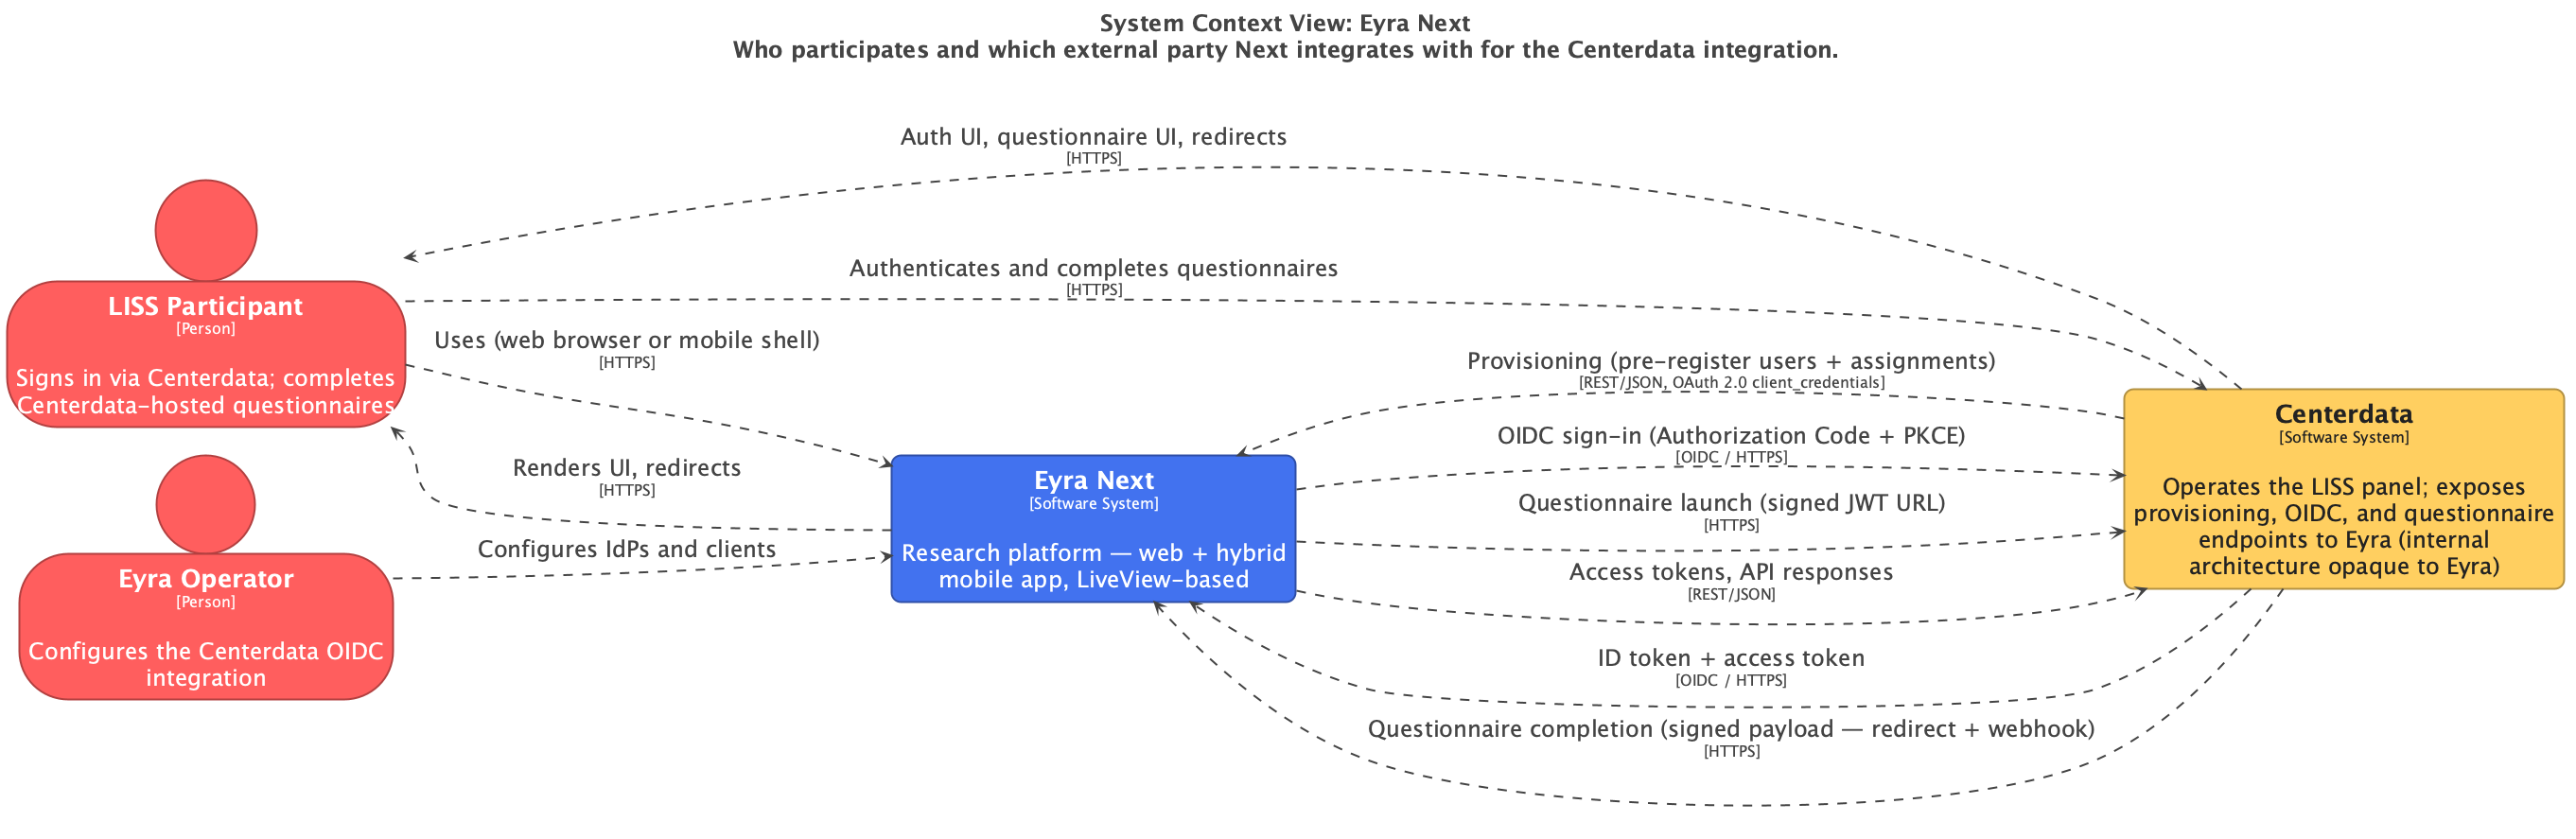
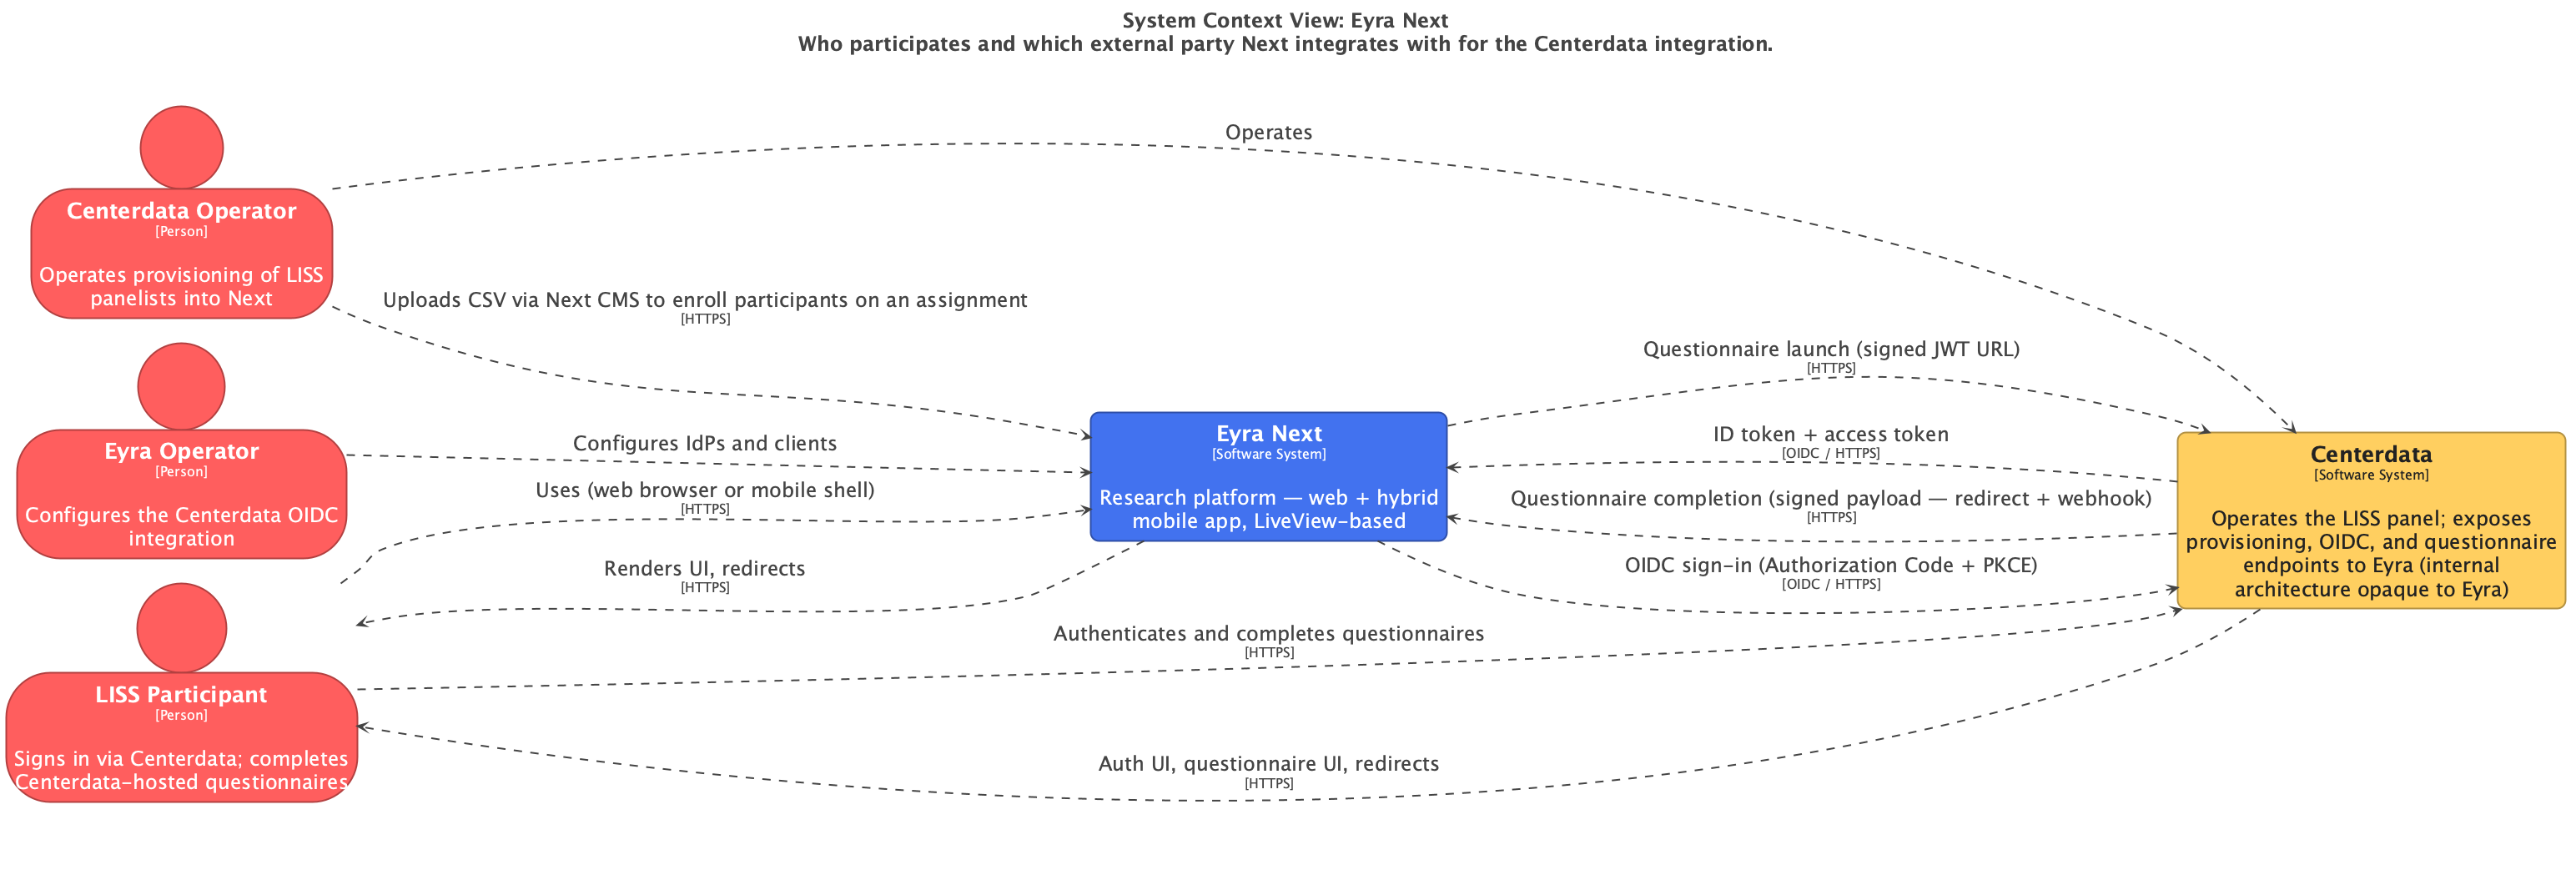
docs(architecture): replace provisioning REST API with CSV import
Interface 1 is now a CSV upload via the Next CMS instead of a REST
provisioning API. Centerdata exports a CSV from the LISS panel and a
Centerdata operator (regular Next user with the creator role) uploads
it to the assignment. The CSV is the declarative truth — importing
replaces the participant list, except for participants who have
already started the assignment.

Design decisions captured:
- Columns: centerdata_sub (required), email (required), label (optional,
  free-form, per-assignment human handle)
- All-or-nothing validation
- Pre-commit confirmation dialog + post-commit result summary (race
  condition between dialog and commit acknowledged — "started" is
  re-evaluated at commit time)
- Sign-in always succeeds; empty-state on the home page if not yet
  enrolled in any assignment
- OIDC sign-in is the only event that mutates User-level fields
  (email); CSV import never overwrites them, only creates if missing

Doc shape:
- design-briefing.md keeps just the contract (terse §5 with rationale)
- csv-import.md captures implementation specifics (validation, UX,
  audit, started-protection rule) so they don't bloat the briefing
- Dropped the Provisioning dynamic diagram (CSV upload is a one-step
  manual action, visible in the Context diagram via the cdOps actor)
- §8 open question 4 reframed to ask Centerdata about export capability
- Terminology: "enroll" (verb) instead of "pre-register" — enrollment
  can happen at any time, not only before sign-in

diff --git a/core/docs/architecture/oauth-mobile-centerdata/design-briefing.md b/core/docs/architecture/oauth-mobile-centerdata/design-briefing.md
@@ -12,7 +12,7 @@
 To let LISS panelists participate in Next assignments via web and the Next mobile app, Centerdata implements three things — all using standard OAuth 2.0 / OIDC mechanics, no Next-specific protocol:
 
 - **An OIDC Identity Provider.** Expose `/.well-known/openid-configuration` and a JWKS endpoint. Support the **Authorization Code + PKCE** flow. Register Next as a client (one `client_id` + `client_secret` per environment) and accept Next's `redirect_uri`. Include `sub` (stable, never reassigned), `email`, and ideally `email_verified` in the ID token.
-- **A provisioning client.** Pre-register LISS panelists and their assignments in Next by calling Next's REST API (`POST /api/provisioning/v1/users` and `/assignments`). Authenticate to that API via OAuth 2.0 **`client_credentials`** using credentials Next issues. Each user record carries the `sub` Centerdata will later issue at sign-in, plus `email`.
+- **A CSV export from the LISS panel.** Centerdata's operator enrolls participants on an assignment by uploading a CSV via Next's CMS. The CSV needs `centerdata_sub` and `email` (plus an optional `label` for human audit). See §5 and [`csv-import.md`](csv-import.md) for the contract and details.
 - **A signed-JWT launch handler for questionnaires.** Accept a signed launch URL from Next, verify the signature against Next's published JWKS (`/.well-known/jwks.json`), open the questionnaire, and return the participant to `return_url` with a signed completion payload (and ideally POST a completion webhook).
 
 The three interfaces are independent — Centerdata is free to host them in the same service or in separate ones; this design makes no assumption either way.
@@ -34,7 +34,7 @@ We make concrete design choices throughout. Each significant choice is followed 
 In scope:
 
 - A participant logs in to Next as a LISS panelist (web and mobile).
-- Centerdata pre-registers LISS panelists and assignments in Next before the participant has ever signed in.
+- Centerdata enrolls LISS panelists on an assignment in Next (via CSV upload), at any time.
 - Next launches a Centerdata-hosted questionnaire on behalf of a logged-in participant and receives a completion signal in return.
 
 Out of scope (for this briefing):
@@ -55,7 +55,7 @@ From Eyra's perspective, Centerdata is **one external party** that we integrate 
 
 | # | Direction | Purpose | Protocol |
 |---|-----------|---------|----------|
-| 1 | Centerdata → Next | Pre-register participants and assignments | REST/JSON, OAuth 2.0 `client_credentials` |
+| 1 | Centerdata → Next | Enroll participants on an assignment | CSV upload via the Next CMS |
 | 2 | Next → Centerdata | Authenticate a LISS panelist at sign-in | OpenID Connect (Authorization Code + PKCE) |
 | 3 | Next → Centerdata (and back) | Launch a questionnaire and receive completion | Signed launch URL + redirect callback |
 
@@ -63,72 +63,46 @@ Each interface is described in detail below.
 
 ---
 
-## 5. Interface 1 — Provisioning API
+## 5. Interface 1 — CSV import
 
 ### 5.1 Purpose
 
-Centerdata pre-creates the LISS panelists and their assignments in Next **before any participant ever signs in**, so that a panelist who signs in for the first time immediately sees their assignments waiting.
+Centerdata enrolls LISS panelists on an assignment in Next, so that when they sign in (or on their next session if already signed in) they see and can start the assignment.
 
-### 5.2 Direction and authentication
+### 5.2 Shape
 
-**Direction:** Centerdata calls a REST API exposed by Next. Next is the resource server.
+- Centerdata exports a CSV from the LISS panel.
+- A Centerdata operator — a regular Next user with the **creator role** on the relevant project — uploads the CSV via the Next CMS's "Import participants" button on the assignment.
+- The CSV is the **declarative truth** for that assignment's participant list: importing replaces the list, except for participants who have already started the assignment (they are protected and kept).
 
-**Authentication:** OAuth 2.0 **client_credentials** flow — the standard OAuth grant for machine-to-machine authentication, where no human user is involved and the calling service authenticates as itself.
+### 5.3 CSV contract
 
-- Next issues Centerdata a `client_id` + `client_secret` pair (one per environment: staging, production). The `client_id` is public; the `client_secret` is the shared secret Centerdata uses to prove its identity.
-- Centerdata POSTs `client_id` + `client_secret` to Next's token endpoint and gets back a short-lived **access token**. It then presents that token as an `Authorization: Bearer <token>` header on every API call (a "Bearer" token because whoever holds it can use it — keep it confidential).
-- Tokens are short-lived (≤ 1 hour). Centerdata refreshes as needed.
+| Column | Required | Purpose |
+|---|---|---|
+| `centerdata_sub` | yes | The value of the OIDC `sub` claim Centerdata will issue for this panelist at sign-in. Primary join key — stable, never reassigned. |
+| `email` | yes | Display, notifications, and sanity check at first sign-in. |
+| `label` | no | Free-form human-readable handle (a name, a Centerdata-internal panel ID, a batch tag). Helps operators recognize rows. Per-assignment, not per-user. |
 
-**Alternatives considered:**
-- *Long-lived API key*: simpler, but harder to rotate and revoke. Rejected — `client_credentials` is the standard for service-to-service, and we already have to speak OAuth/OIDC for Interface 2.
-- *Mutual TLS*: stronger transport-level auth, but operationally heavier and not needed for the threat model.
+File format is standard RFC 4180 CSV, UTF-8, with the header row above (column order does not matter).
 
-### 5.3 User identifier — the join key
+### 5.4 Authority over user-level fields
 
-Each user provisioned by Centerdata is identified by **two required fields**:
+Both CSV import and OIDC sign-in can **create** a User record if none exists yet for a given `centerdata_sub`. Only OIDC sign-in can **update** an existing User record (`email` is overwritten with whatever the live ID token issues). CSV import never overwrites User fields — it only writes Participant rows (user ↔ assignment membership, plus per-assignment `label`).
 
-- `centerdata_sub` *(required, primary)* — the value of the OIDC `sub` claim that Centerdata will issue for this panelist at sign-in: a stable, never-reassigned identifier. This is the **primary join key**.
-- `email` *(required)* — the panelist's email address. Used for display, notifications, and as a sanity check at first sign-in.
+This way a stale CSV cannot roll back a fresher email that Centerdata's IdP issued at sign-in.
 
-At first sign-in via OIDC, Next looks up the pre-registered user by matching the OIDC ID token's `sub` claim against the stored `centerdata_sub`. Email mismatch produces a warning but does **not** block the sign-in — this covers legitimate email changes at Centerdata.
+### 5.5 Rationale
 
-**Rationale:** Email is mutable and occasionally reassigned; relying on email alone for the durable join would break the link when a panelist's email changes at Centerdata. The OIDC `sub` claim is defined by the OIDC spec as locally-unique to the IdP and never-reassigned, making it the canonical join key.
+- **`sub` as primary join key.** The OIDC `sub` claim is spec-defined as locally-unique to the IdP and never reassigned. Email alone would break the link when a panelist's email changes at Centerdata. *Rejected:* email-only matching (fragile); `sub`-only with no email (loses display + sanity check).
+- **Declarative replace with protected-started carve-out.** Operators can re-sync any time by re-exporting; in-flight participants are never silently removed.
 
-**Alternatives considered:**
-- *Email-only matching*: simpler but fragile (see rationale above). Rejected.
-- *`sub`-only matching*: cleaner but loses email as a sanity check and a human-meaningful display field at provisioning time. Rejected.
-
-### 5.4 API surface (initial sketch)
-
-The exact API contract is part of the implementation work and will be specified separately. As a starting sketch:
-
-```
-POST   /api/provisioning/v1/users                              Pre-register a LISS panelist
-PATCH  /api/provisioning/v1/users/{sub}                        Update a pre-registered user
-DELETE /api/provisioning/v1/users/{sub}                        Deactivate a user
-
-POST   /api/provisioning/v1/assignments                        Create assignment (metadata + optional initial participants)
-PATCH  /api/provisioning/v1/assignments/{id}                   Update assignment metadata
-DELETE /api/provisioning/v1/assignments/{id}                   Withdraw assignment
-
-PUT    /api/provisioning/v1/assignments/{id}/participants      Replace participant list (declarative, idempotent)
-GET    /api/provisioning/v1/assignments/{id}/participants      List participants (for reconciliation)
-```
-
-**Design notes:**
-
-- **Participants are a sub-resource of an assignment.** An assignment's *metadata* (questionnaire, schedule, etc.) and its *membership* (who is in it) have different lifecycles, so they get separate endpoints. Updating one doesn't touch the other.
-- **Membership is declarative.** `PUT /participants` takes the full desired list and the server reconciles. Centerdata can therefore re-sync at any time by sending the current truth — no need to track deltas. Retries are safe.
-- **Convenience on create.** `POST /assignments` accepts an optional `participants` array so the common "create assignment + add panelists" case is one round trip.
-- The API is generic — Centerdata is one client among others (future partners, the internal Next CLI). The `provisioning` scope and `v1` version are independent of any specific caller.
-
-All requests/responses are JSON. All endpoints return standard HTTP status codes and a structured error body on failure.
+Implementation specifics (validation, confirmation dialog, race-condition handling, error reporting) live in [`csv-import.md`](csv-import.md).
 
 ## 6. Interface 2 — OIDC sign-in
 
 ### 6.1 Purpose
 
-Authenticate a LISS panelist visiting Next (on web or in the mobile app), using Centerdata's OIDC IdP. After successful sign-in, Next has a session for the participant, linked to the pre-registered user record.
+Authenticate a LISS panelist visiting Next, using Centerdata's OIDC IdP. After successful sign-in, Next has a session for the participant. If they have been imported into one or more assignments, those appear on the home page; otherwise the home page shows an empty state.
 
 ### 6.2 Flow
 
@@ -147,7 +121,7 @@ Steps:
 4. The participant authenticates at Centerdata.
 5. Centerdata redirects back to Next's callback URL with an authorization code.
 6. Next exchanges the code for tokens at Centerdata's `/token` endpoint and validates the ID token signature against Centerdata's **JWKS** (JSON Web Key Set — the set of public keys Centerdata publishes at a discoverable URL, used to verify ID token signatures).
-7. Next looks up the pre-registered user by `id_token.sub == stored.centerdata_sub`, establishes a session, and redirects the participant back into the Next UI.
+7. Next looks up the user by `id_token.sub == stored.centerdata_sub` (creating a fresh user record if this is a first-time sub), updates the user's email from the ID token, establishes a session, and redirects the participant back into the Next UI.
 
 ### 6.3 What Next needs from Centerdata
 
@@ -163,7 +137,7 @@ The ID token is a signed JWT (JSON Web Token — a signed, base64url-encoded JSO
 
 | Claim | Required | Notes |
 |-------|----------|-------|
-| `sub` | yes | Subject — the IdP's stable, never-reassigned identifier for the user. Next's primary join key — must match the `centerdata_sub` from provisioning. |
+| `sub` | yes | Subject — the IdP's stable, never-reassigned identifier for the user. Next's primary join key — matched against the `centerdata_sub` of any CSV-imported participant rows. |
 | `email` | yes | Display + sanity check at first sign-in. |
 | `email_verified` | recommended | True only if Centerdata has verified ownership. |
 | `iss` | yes | Issuer — the IdP's identifier URL. Next checks it matches Centerdata's published issuer. |
@@ -228,7 +202,7 @@ These are the items where Eyra has made a working assumption but Centerdata's an
 1. **OIDC support and conformance.** Can Centerdata's OIDC endpoint support Authorization Code + PKCE, with discovery (`/.well-known/openid-configuration`) and a JWKS endpoint?
 2. **`sub` stability.** Can Centerdata guarantee the OIDC `sub` claim is stable and never reassigned for the lifetime of a LISS panelist?
 3. **Email claim.** Will Centerdata include `email` (and ideally `email_verified`) in the ID token?
-4. **Provisioning API direction.** We propose Centerdata calls a Next-exposed REST API authenticated with `client_credentials`. Does this fit Centerdata's operational model, or does Centerdata prefer Next to poll Centerdata endpoints?
+4. **CSV export from the LISS panel.** Can Centerdata produce a per-assignment export of LISS panelists with at least `centerdata_sub` and `email` (plus optionally a human-recognizable `label`)? And which Centerdata role(s) would operate the import on the Next side?
 5. **Questionnaire launch mechanism.** What signed-launch mechanism does Centerdata's questionnaire system already support — LTI 1.3, a bespoke JWT scheme, shared HMAC, or something else? We propose to align with whatever Centerdata already does rather than introduce a new contract.
 6. **Questionnaire completion callback.** Does Centerdata support a server-to-server completion webhook in addition to the redirect, and what signing/auth does it expect?
 7. **Account lifecycle signals.** How does Centerdata signal participant deactivation or removal (provisioning `DELETE`, periodic reconciliation, lifecycle webhook)?
@@ -236,12 +210,13 @@ These are the items where Eyra has made a working assumption but Centerdata's an
 
 ## 9. Diagrams
 
-Four diagrams accompany this document, all generated from `workspace.dsl` (Structurizr DSL). Centerdata is modelled as a single external Software System throughout — its internal split is not assumed, and the diagrams therefore do not name any internal Centerdata component. See [`diagrams.md`](diagrams.md) for regeneration instructions.
+Three diagrams accompany this document, all generated from `workspace.dsl` (Structurizr DSL). Centerdata is modelled as a single external Software System throughout — its internal split is not assumed, and the diagrams therefore do not name any internal Centerdata component. See [`diagrams.md`](diagrams.md) for regeneration instructions.
 
 - **Context** (`structurizr-Context.png`) — Participant, Next, Centerdata, and the operators on each side.
-- **Interface 1 — Provisioning** (`structurizr-Provisioning.png`) — Dynamic view: Centerdata pre-registers a participant and an assignment, authenticated via `client_credentials`.
 - **Interface 2 — OIDC sign-in** (`structurizr-SignIn.png`) — Dynamic view: OIDC Authorization Code + PKCE flow, identical for web and mobile.
 - **Interface 3 — Questionnaire launch** (`structurizr-QuestionnaireLaunch.png`) — Dynamic view: signed JWT launch URL, questionnaire completion, redirect + webhook return.
+
+Interface 1 (CSV import) is a manual operator flow, not a runtime interaction — no dynamic diagram.
 
 ## 10. References — prerequisite reading
 

diff --git a/core/docs/architecture/oauth-mobile-centerdata/csv-import.md b/core/docs/architecture/oauth-mobile-centerdata/csv-import.md
@@ -1,0 +1,50 @@
+# CSV import — implementation notes
+
+Companion to [`design-briefing.md`](design-briefing.md) §5. The briefing defines the contract; this file captures the implementation behavior — validation rules, UX flow, race-condition handling, error reporting.
+
+## Flow
+
+1. **Upload.** Operator clicks "Import participants" on an assignment, picks a CSV file.
+2. **Validation.** Next parses and validates the file end-to-end (see [Validation](#validation)). If any row fails, the import is rejected with a per-row error list. **All-or-nothing — no partial application.**
+3. **Confirmation dialog.** Next computes the diff against the current participant list (a snapshot at upload time) and shows a summary:
+   > Importing this CSV will:
+   > - Add **N** new participants
+   > - Remove **M** participants
+   > - Keep **K** participants who could not be removed because they have already started
+   >
+   > [Cancel] [Confirm import]
+4. **Commit.** On confirm, Next applies the change inside a transaction. The "already started" check is **re-evaluated at commit time**, not at upload time — between the dialog being shown and the operator clicking Confirm, more participants may have started.
+5. **Result summary.** After commit, Next shows what actually happened (which may differ from the preview if more participants started in the meantime).
+
+## Validation
+
+Rejected files (whole import fails):
+
+- Missing required header column (`centerdata_sub` or `email`).
+- Unknown extra columns.
+- Any row with a missing/empty `centerdata_sub` or `email`.
+- Any row with a malformed email (basic RFC 5322 shape).
+- Duplicate `centerdata_sub` within the file.
+
+`label` is optional and free-form; no validation beyond character encoding.
+
+## User and Participant record semantics
+
+- **User record** (one per `centerdata_sub`): identified by `centerdata_sub`; holds `email`. Either CSV import or OIDC sign-in may **create** this record. **Only OIDC sign-in updates it** — `email` is overwritten from the ID token. CSV import never touches an existing User record's fields.
+- **Participant record** (one per user-per-assignment): membership row. Holds `user_id`, `assignment_id`, `label`, status. CSV import creates, updates (`label`), or removes these freely, subject to the started-protection rule.
+
+The Crew model that Next uses internally to manage assignment membership is not exposed to operators — they only see "participants".
+
+## Started-protection rule
+
+A participant is **protected from removal** if they have engaged with the assignment after publication (concrete check: a participant session/state record exists). Otherwise they may be freely added or removed.
+
+If a CSV omits a started participant, Next keeps them; the operator sees this in both the pre-commit preview and the post-commit summary.
+
+## File format
+
+RFC 4180 CSV, UTF-8 (with optional BOM tolerated), header row required, column order arbitrary, both LF and CRLF accepted on import.
+
+## Auditing
+
+Each import records who imported, when, file hash, the computed diff, and the actual applied diff (post-commit). Operators can review past imports per assignment.